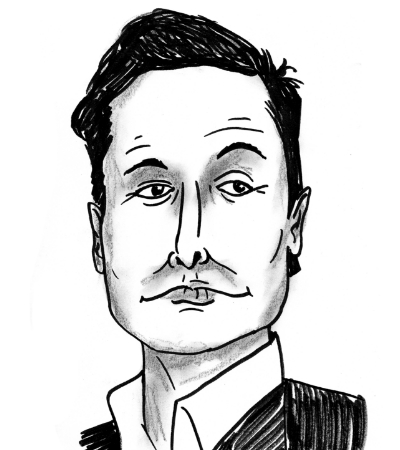
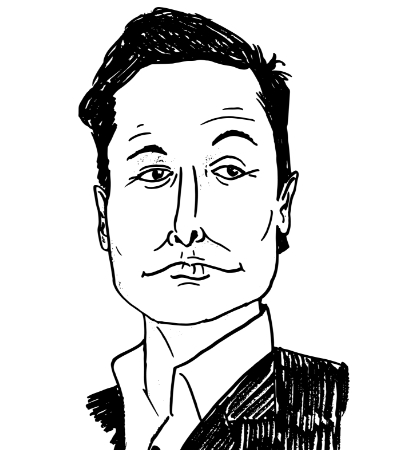
Changed caricatures to graphic style

Changed region(s): [[0.18, 0.0, 0.93, 1.0]]

diff --git a/index.html b/index.html
@@ -14,7 +14,7 @@
   <meta charset="UTF-8">
   <meta name="description"
     content="Caricature artist Steven Simon, based in Houston, Texas. Hire Steven for live event caricatures at parties, weddings, festivals, and more. Bring your event to life with personalized and entertaining caricature drawings.">
-  <meta name="keywords" content="caricature, custom caricature, caricature art, personalized caricature">
+  <meta name="keywords" content="caricature, custom caricature, caricature art, personalized caricature, personalized caricature gifts, cartoon, steven, simon, simon drawing cartoon, cartoon drawings">
   <meta name="robots" content="index, follow">
   <link rel="shortcut icon" type="image/x-icon" href="https://stevenraysimon.github.io/caricatures/images/favicon.ico" />
   <title>Caricatures by Steven Simon</title>
@@ -89,16 +89,16 @@
   <div class="portraits">
     <div class="row">
       <div class="caricature">
-        <img src="images/lebron.jpg" title="LeBron James" />
-        <p class="text">LeBron James</p>
+        <img src="images/ellen.jpg" title="Ellen DeGeneres" />
+        <p class="text">Ellen DeGeneres</p>
       </div><!--caricature-->
       <div class="caricature">
-        <img src="images/marilyn.jpg" title="Marilyn Monroe" />
-        <p class="text">Marilyn Monroe</p>
+        <img src="images/usher.jpg" title="Usher" />
+        <p class="text">Usher</p>
       </div><!--caricature-->
       <div class="caricature">
-        <img src="images/rock.jpg" title="Dwayne Johnson" />
-        <p class="text">Dwayne Johnson</p>
+        <img src="images/jeff.jpg" title="Jeff Bezos" />
+        <p class="text">Jeff Bezos</p>
       </div><!--caricature-->
       <div class="caricature">
         <img src="images/nicki.jpg" title="Nicki Minaj" />
@@ -107,8 +107,8 @@
     </div><!--row-->
     <div class="row">
       <div class="caricature">
-        <img src="images/hillary.jpg" title="Hillary Clinton" />
-        <p class="text">Hillary Clinton</p>
+        <img src="images/taylor.jpg" title="Taylor Swift" />
+        <p class="text">Taylor Swift</p>
       </div><!--caricature-->
       <div class="caricature">
         <img src="images/elon.jpg" title="Elon Musk" />
@@ -125,12 +125,12 @@
     </div><!--row-->
     <div class="row">
       <div class="caricature">
-        <img src="images/jeff.jpg" title="Jeff Bezos" />
-        <p class="text">Jeff Bezos</p>
+        <img src="images/whoopi.jpg" title="Whoopi Goldberg" />
+        <p class="text">Whoopi Goldberg</p>
       </div><!--caricature-->
       <div class="caricature">
-        <img src="images/oprah.jpg" title="Oprah Winfrey" />
-        <p class="text">Oprah Winfrey</p>
+        <img src="images/travis.jpg" title="Travis Barker" />
+        <p class="text">Travis Barker</p>
       </div><!--caricature-->
       <div class="caricature">
         <img src="images/hulk.jpg" title="Hulk Hogan" />

diff --git a/css/main.css b/css/main.css
@@ -360,6 +360,7 @@ hr {
   width: 100%;
   padding: 0 10px;
   box-sizing: border-box;
+  pointer-events: none;
 }
 
 .row .text {
